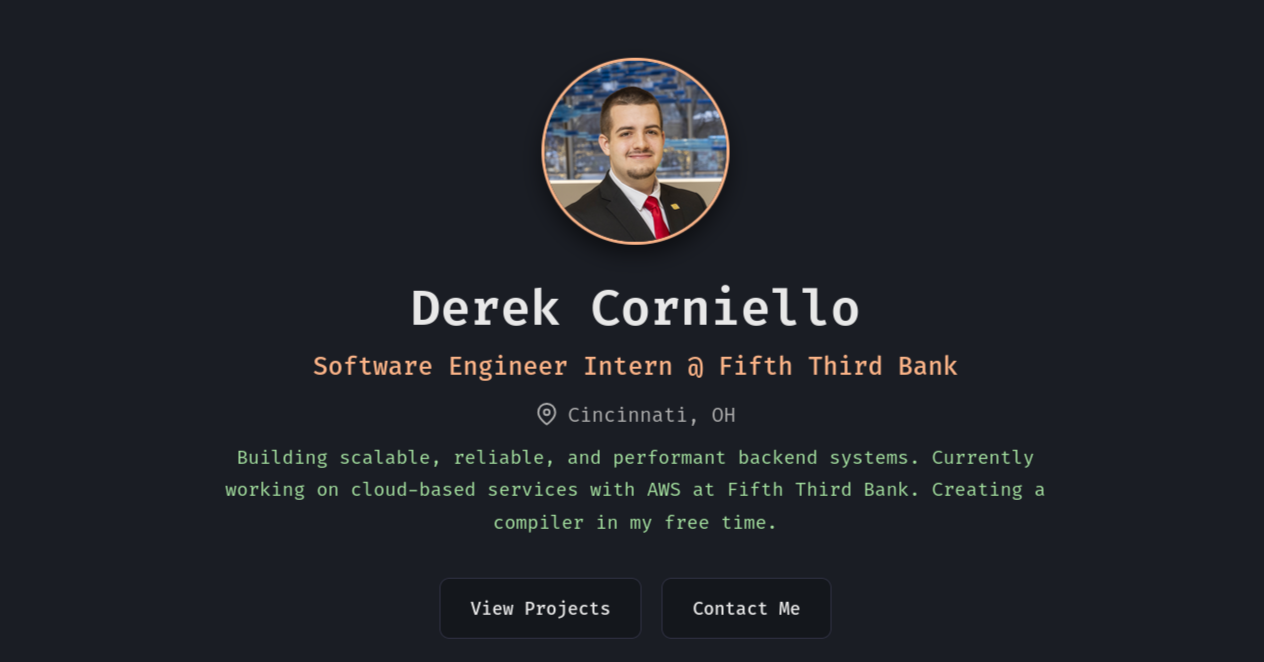
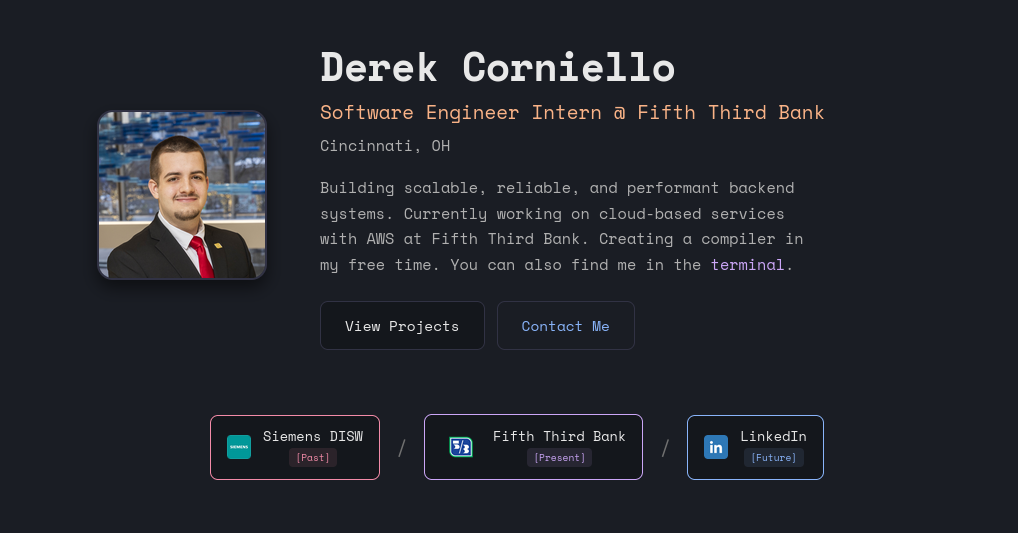
font update, update preview

diff --git a/components/layout/Footer.vue b/components/layout/Footer.vue
@@ -5,25 +5,25 @@
         &copy; {{ currentYear }} Derek Corniello
       </p>
       <div class="social-links">
-        <a href="https://github.com/DerekCorniello" target="_blank" rel="noopener noreferrer" aria-label="GitHub">
-          <svg xmlns="http://www.w3.org/2000/svg" width="20" height="20" viewBox="0 0 24 24" fill="none" stroke="currentColor" stroke-width="2" stroke-linecap="round" stroke-linejoin="round">
+        <a href="https://github.com/DerekCorniello" target="_blank" rel="noopener noreferrer" aria-label="GitHub" class="social-link icon-variant--stroke-thin">
+          <svg xmlns="http://www.w3.org/2000/svg" width="20" height="20" viewBox="0 0 24 24" fill="none" stroke="currentColor" stroke-width="1.25" stroke-linecap="round" stroke-linejoin="round">
             <path d="M9 19c-5 1.5-5-2.5-7-3m14 6v-3.87a3.37 3.37 0 0 0-.94-2.61c3.14-.35 6.44-1.54 6.44-7A5.44 5.44 0 0 0 20 4.77 5.07 5.07 0 0 0 19.91 1S18.73.65 16 2.48a13.38 13.38 0 0 0-7 0C6.27.65 5.09 1 5.09 1A5.07 5.07 0 0 0 5 4.77a5.44 5.44 0 0 0-1.5 3.78c0 5.42 3.3 6.61 6.44 7A3.37 3.37 0 0 0 9 18.13V22"/>
           </svg>
         </a>
-        <a href="https://linkedin.com/in/derek-corniello" target="_blank" rel="noopener noreferrer" aria-label="LinkedIn">
-          <svg xmlns="http://www.w3.org/2000/svg" width="20" height="20" viewBox="0 0 24 24" fill="none" stroke="currentColor" stroke-width="2" stroke-linecap="round" stroke-linejoin="round">
+        <a href="https://linkedin.com/in/derek-corniello" target="_blank" rel="noopener noreferrer" aria-label="LinkedIn" class="social-link icon-variant--stroke-bold">
+          <svg xmlns="http://www.w3.org/2000/svg" width="20" height="20" viewBox="0 0 24 24" fill="none" stroke="currentColor" stroke-width="2.6" stroke-linecap="round" stroke-linejoin="round">
             <path d="M16 8a6 6 0 0 1 6 6v7h-4v-7a2 2 0 0 0-2-2 2 2 0 0 0-2 2v7h-4v-7a6 6 0 0 1 6-6z"/>
             <rect x="2" y="9" width="4" height="12"/>
             <circle cx="4" cy="4" r="2"/>
           </svg>
         </a>
-        <a href="https://x.com/DerekCorniello" target="_blank" rel="noopener noreferrer" aria-label="X (Twitter)">
+        <a href="https://x.com/DerekCorniello" target="_blank" rel="noopener noreferrer" aria-label="X (Twitter)" class="social-link icon-variant--filled">
           <svg xmlns="http://www.w3.org/2000/svg" width="20" height="20" viewBox="0 0 24 24" fill="currentColor">
             <path d="M18.244 2.25h3.308l-7.227 8.26 8.502 11.24H16.17l-5.214-6.817L4.99 21.75H1.68l7.73-8.835L1.254 2.25H8.08l4.713 6.231zm-1.161 17.52h1.833L7.084 4.126H5.117z"/>
           </svg>
         </a>
-        <a href="https://youtube.com/@DerekCornDev" target="_blank" rel="noopener noreferrer" aria-label="YouTube">
-          <svg xmlns="http://www.w3.org/2000/svg" width="20" height="20" viewBox="0 0 24 24" fill="none" stroke="currentColor" stroke-width="2" stroke-linecap="round" stroke-linejoin="round">
+        <a href="https://youtube.com/@DerekCornDev" target="_blank" rel="noopener noreferrer" aria-label="YouTube" class="social-link icon-variant--stroke-medium">
+          <svg xmlns="http://www.w3.org/2000/svg" width="20" height="20" viewBox="0 0 24 24" fill="none" stroke="currentColor" stroke-width="1.8" stroke-linecap="round" stroke-linejoin="round">
             <path d="M22.54 6.42a2.78 2.78 0 0 0-1.94-2C18.88 4 12 4 12 4s-6.88 0-8.6.46a2.78 2.78 0 0 0-1.94 2A29 29 0 0 0 1 11.75a29 29 0 0 0 .46 5.33A2.78 2.78 0 0 0 3.4 19c1.72.46 8.6.46 8.6.46s6.88 0 8.6-.46a2.78 2.78 0 0 0 1.94-2 29 29 0 0 0 .46-5.25 29 29 0 0 0-.46-5.33z"/>
             <polygon points="9.75 15.02 15.5 11.75 9.75 8.48 9.75 15.02"/>
           </svg>
@@ -101,4 +101,11 @@ const currentYear = new Date().getFullYear()
     height: 16px;
   }
 }
+
+.social-links svg { display: block; }
+.icon-variant--stroke-thin svg, .icon-variant--stroke-thin > svg { stroke-width: 1.25 !important; }
+.icon-variant--stroke-medium svg, .icon-variant--stroke-medium > svg { stroke-width: 1.8 !important; }
+.icon-variant--stroke-bold svg, .icon-variant--stroke-bold > svg { stroke-width: 2.6 !important; }
+.icon-variant--filled svg { fill: currentColor; stroke: none; }
+
 </style>

diff --git a/assets/css/main.css b/assets/css/main.css
@@ -23,7 +23,7 @@
   --shadow-md: 0 4px 8px rgba(0, 0, 0, 0.4);
   --shadow-lg: 0 8px 16px rgba(0, 0, 0, 0.5);
 
-  --font-mono: 'Space Grotesk', sans-serif;
+  --font-mono: 'Space Mono', monospace;
 
   --container-max: 1200px;
   --header-height: 70px;
@@ -50,7 +50,7 @@ html {
 }
 
 body {
-  font-family: 'Space Grotesk', sans-serif;
+  font-family: 'Space Mono', monospace;
   background-color: var(--bg-base);
   color: var(--text-primary);
   line-height: 1.6;
@@ -72,7 +72,7 @@ body {
 }
 
 h1, h2, h3, h4, h5, h6 {
-  font-family: 'Space Grotesk', sans-serif;
+  font-family: 'Space Mono', monospace;
   font-weight: 600;
   line-height: 1.3;
   color: var(--text-primary);
@@ -102,7 +102,7 @@ a:hover {
   align-items: center;
   justify-content: center;
   padding: 0.75rem 1.5rem;
-  font-family: 'Space Grotesk', sans-serif;
+  font-family: 'Space Mono', monospace;
   font-size: 0.9rem;
   font-weight: 500;
   border-radius: 8px;
@@ -149,7 +149,7 @@ a:hover {
   display: inline-flex;
   align-items: center;
   padding: 0.2rem 0.5rem;
-  font-family: 'Space Grotesk', sans-serif;
+  font-family: 'Space Mono', monospace;
   font-size: 0.7rem;
   border-radius: 20px;
   border: 1px solid;
@@ -273,7 +273,7 @@ a:hover {
   padding: 0.75rem 1rem;
   background: var(--accent-red);
   color: var(--bg-crust);
-  font-family: 'Space Grotesk', sans-serif;
+  font-family: 'Space Mono', monospace;
   font-weight: 600;
   z-index: 9999;
   transition: top var(--transition-fast);

diff --git a/pages/posts/index.vue b/pages/posts/index.vue
@@ -213,7 +213,7 @@ useHead({
   border: none;
   outline: none;
   color: var(--text-primary);
-  font-family: 'Space Grotesk', sans-serif;
+  font-family: 'Space Mono', monospace;
   font-size: 0.95rem;
 }
 
@@ -233,7 +233,7 @@ useHead({
   border: 1px solid var(--border);
   border-radius: 20px;
   color: var(--text-secondary);
-  font-family: 'Space Grotesk', sans-serif;
+  font-family: 'Space Mono', monospace;
   font-size: 0.8rem;
   cursor: pointer;
 }
@@ -403,7 +403,7 @@ useHead({
 
 .post-tag {
   padding: 0.2rem 0.6rem;
-  font-family: 'Space Grotesk', sans-serif;
+  font-family: 'Space Mono', monospace;
   font-size: 0.7rem;
   color: var(--accent-blue);
   border: 1px solid var(--accent-blue);

diff --git a/pages/terminal.vue b/pages/terminal.vue
@@ -388,7 +388,7 @@ onMounted(() => {
   padding: 0.5rem 1rem;
   overflow-y: auto;
   color: var(--text-primary);
-  font-family: 'Space Grotesk', sans-serif;
+  font-family: 'Space Mono', monospace;
   font-size: 0.875rem;
   cursor: text;
 }
@@ -444,7 +444,7 @@ onMounted(() => {
   background: transparent;
   border: none;
   color: var(--text-primary);
-  font-family: 'Space Grotesk', sans-serif;
+  font-family: 'Space Mono', monospace;
   font-size: inherit;
   flex: 1;
   outline: none;
@@ -541,7 +541,7 @@ onMounted(() => {
 }
 
 .ascii-art pre {
-  font-family: 'Space Grotesk', sans-serif;
+  font-family: 'Space Mono', monospace;
   margin: 0;
   line-height: 1.1;
   font-size: 0.75rem;

diff --git a/pages/index.vue b/pages/index.vue
@@ -124,14 +124,14 @@ useHead({
 }
 
 .company-name {
-  font-family: 'Space Grotesk', sans-serif;
+  font-family: 'Space Mono', monospace;
   font-size: 0.85rem;
   color: var(--text-primary);
   line-height: 1.2;
 }
 
 .status-badge {
-  font-family: 'Space Grotesk', sans-serif;
+  font-family: 'Space Mono', monospace;
   font-size: 0.6rem;
   padding: 0.1rem 0.4rem;
   border-radius: 4px;
@@ -155,7 +155,7 @@ useHead({
 
 .separator {
   color: var(--text-muted);
-  font-family: 'Space Grotesk', sans-serif;
+  font-family: 'Space Mono', monospace;
   font-size: 1.25rem;
 }
 </style>

diff --git a/nuxt.config.ts b/nuxt.config.ts
@@ -50,7 +50,7 @@ export default defineNuxtConfig({
         { rel: 'preconnect', href: 'https://fonts.gstatic.com', crossorigin: '' },
         {
           rel: 'stylesheet',
-          href: 'https://fonts.googleapis.com/css2?family=Fira+Code:wght@400;500;600&family=Space+Grotesk:wght@400;500;600;700&display=swap&font-display=swap',
+          href: 'https://fonts.googleapis.com/css2?family=Space+Mono:wght@400;700&display=swap',
         },
       ],
       script: [

diff --git a/components/home/RecentBlog.vue b/components/home/RecentBlog.vue
@@ -155,7 +155,7 @@ onMounted(async () => {
 
 .post-tag {
   padding: 0.15rem 0.5rem;
-  font-family: 'Space Grotesk', sans-serif;
+  font-family: 'Space Mono', monospace;
   font-size: 0.7rem;
   color: var(--accent-blue);
   border: 1px solid var(--accent-blue);

diff --git a/pages/about.vue b/pages/about.vue
@@ -237,7 +237,7 @@ useHead({
   border: 1px solid var(--border);
   border-radius: 8px;
   color: var(--text-secondary);
-  font-family: 'Space Grotesk', sans-serif;
+  font-family: 'Space Mono', monospace;
   font-size: 1rem;
   cursor: pointer;
 }

diff --git a/pages/contact.vue b/pages/contact.vue
@@ -186,7 +186,7 @@ const copyToClipboard = async (text: string) => {
 
 .contact-details .value {
   color: var(--text-primary);
-  font-family: 'Space Grotesk', sans-serif;
+  font-family: 'Space Mono', monospace;
 }
 
 .copy-btn {

diff --git a/layouts/terminal.vue b/layouts/terminal.vue
@@ -17,6 +17,6 @@ useHead({
 .terminal-layout {
   min-height: 100vh;
   background-color: var(--bg-base);
-  font-family: 'Space Grotesk', sans-serif;
+  font-family: 'Space Mono', monospace;
 }
 </style>
